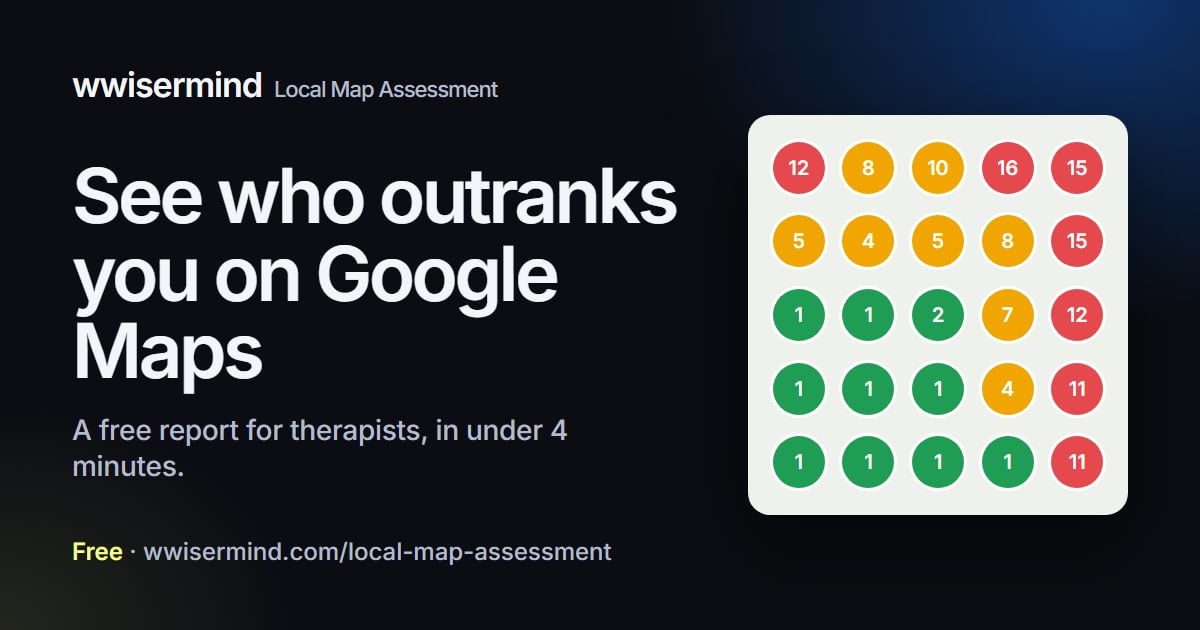
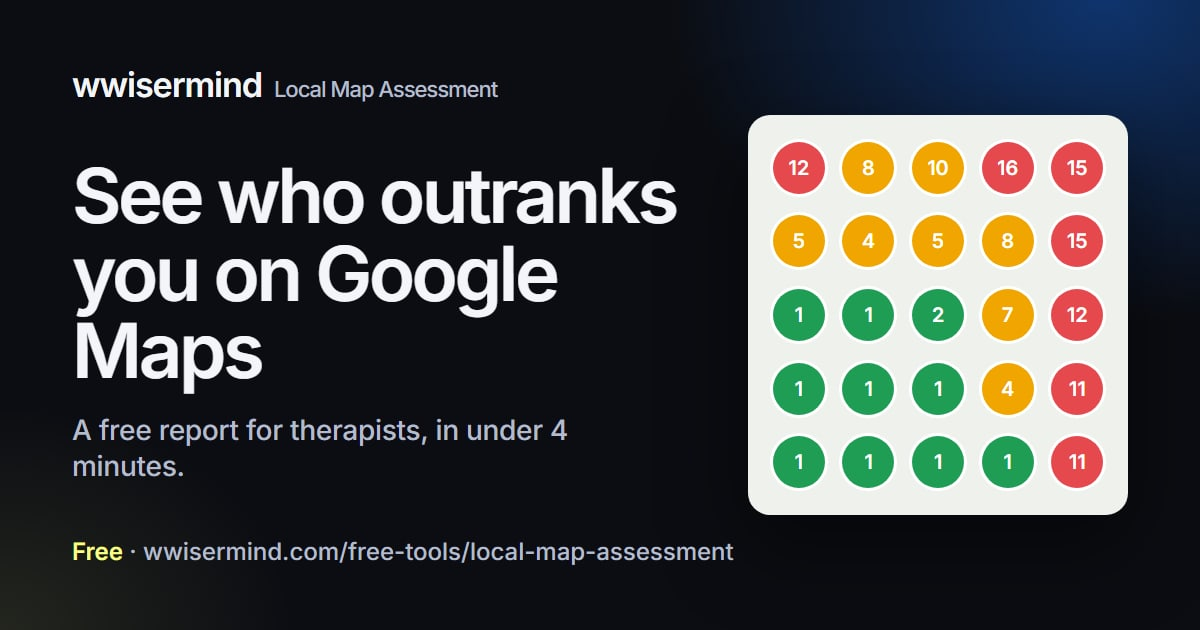
Move every tool, freebie and hub page under /free-tools/
- Routes: /tools/*, /freebies/<slug>/ and /local-map-assessment/* move to /free-tools/<same slug>/;
  /free-tools/ is the one hub (the combined freebies hub, also the free-resources category hub).
  Slugs are unchanged, /therapyindex/ and every API/Worker endpoint are untouched. The two freebie
  PDFs move to public/free-tools/.
- Every reference updated: lib/routes.ts (the source for menus, callouts, hubs, sitemap, schema),
  hard-coded paths in the GFE, Local Map and scorecard emails and report links, the scorecard report
  base, the Therapy Index own-chrome list, the Local Map own-chrome check, the help now widget script
  link, blog posts, README, the OG image text and the GFE e2e check.
- public/_redirects: exact 301s for every old URL (with and without a trailing slash), then
  /tools/*, /freebies/* and /local-map-assessment/* splats; old scorecard report links keep their id;
  the report shell rewrite and its _headers entry moved to the new path; older /explore rules now
  point straight at the final address.

Changed region(s): [[0.2775, 0.8444, 0.6167, 0.9048]]

diff --git a/lib/routes.ts b/lib/routes.ts
@@ -75,25 +75,34 @@ export const SERVICE_PRICING = {
   'ongoing-seo': pricing.seo,
 } as const satisfies Partial<Record<ServiceKey, Route>>;
 
-/* --- the freebies hub, the freebie pages and the two tools ---------------------------------- */
+/* --- the free-tools hub, the freebie pages and the tool pages -------------------------------- */
 
-/** Keyed by the slug in lib/freebies.ts: the folder the page lives in. The five downloads sit under
-    /freebies/, the two tools under /tools/. */
+/** Keyed by the slug in lib/freebies.ts: the page's address. Every download, template and tool sits
+    under /free-tools/. (They used to be under /freebies/ and /tools/; public/_redirects sends every
+    old address here.) */
 export const FREEBIE_PATHS = {
-  '2027-full-caseload-plan-for-therapists': '/freebies/2027-full-caseload-plan-for-therapists/',
-  'ai-visibility-report': '/tools/ai-visibility-report/',
-  'website-scorecard-for-therapists': '/tools/website-scorecard-for-therapists/',
-  'good-faith-estimate': '/tools/good-faith-estimate/',
+  '2027-full-caseload-plan-for-therapists': '/free-tools/2027-full-caseload-plan-for-therapists/',
+  'ai-visibility-report': '/free-tools/ai-visibility-report/',
+  'website-scorecard-for-therapists': '/free-tools/website-scorecard-for-therapists/',
+  'good-faith-estimate': '/free-tools/good-faith-estimate/',
   'psychology-today-profile-kit-for-therapists':
-    '/freebies/psychology-today-profile-kit-for-therapists/',
+    '/free-tools/psychology-today-profile-kit-for-therapists/',
   'google-business-profile-checklist-for-therapists':
-    '/freebies/google-business-profile-checklist-for-therapists/',
-  'social-media-posts-for-therapists': '/freebies/social-media-posts-for-therapists/',
-  'business-card-template-for-therapists': '/freebies/business-card-template-for-therapists/',
-  'email-signature-for-therapists': '/freebies/email-signature-for-therapists/',
+    '/free-tools/google-business-profile-checklist-for-therapists/',
+  'social-media-posts-for-therapists': '/free-tools/social-media-posts-for-therapists/',
+  'business-card-template-for-therapists': '/free-tools/business-card-template-for-therapists/',
+  'email-signature-for-therapists': '/free-tools/email-signature-for-therapists/',
 } as const satisfies Record<string, Route>;
 
 export type FreebieKey = keyof typeof FREEBIE_PATHS;
+
+/** The freebies that have a page folder of their own under app/free-tools/, so the shared [slug] page
+    leaves them out: the tools, not the downloads. */
+export const TOOL_PAGE_KEYS: FreebieKey[] = [
+  'ai-visibility-report',
+  'website-scorecard-for-therapists',
+  'good-faith-estimate',
+];
 
 /* --- everything else ------------------------------------------------------------------- */
 
@@ -108,7 +117,7 @@ export const routes = {
   contactBook: '/contact/#book',
   contactForm: '/contact/#contact-form',
   /** The free Local Map Assessment landing page. It has its own header and footer (see usesOwnChrome in lib/site.ts). */
-  localMapAssessment: '/local-map-assessment/',
+  localMapAssessment: '/free-tools/local-map-assessment/',
   blog: '/blog/',
   rss: '/rss.xml',
 
@@ -133,20 +142,18 @@ export const routes = {
 
   pricing,
 
-  /** The five category hubs (lib/categories.ts). The free-resources hub is the old freebies hub, moved:
-      /freebies/ redirects to it, and each freebie's own page keeps its /freebies/<slug>/ address. */
+  /** The five category hubs (lib/categories.ts). The free-resources hub is the one /free-tools/ hub:
+      /freebies/, /tools/ and /free-resources-for-therapists/ all redirect to it. */
   hubs: {
     websiteDesign: '/website-design-for-therapists/',
     marketing: '/marketing-for-therapists/',
     ai: '/ai-services-for-therapists/',
     whoWeHelp: '/who-we-help/',
-    freeResources: '/free-resources-for-therapists/',
+    freeResources: '/free-tools/',
   },
 
   freebies: {
-    hub: '/free-resources-for-therapists/',
-    /** The folder the five download pages live in. The hub left it; the pages did not. */
-    folder: '/freebies/',
+    hub: '/free-tools/',
     fullCaseloadPlan: FREEBIE_PATHS['2027-full-caseload-plan-for-therapists'],
     psychologyTodayKit: FREEBIE_PATHS['psychology-today-profile-kit-for-therapists'],
     googleBusinessProfile: FREEBIE_PATHS['google-business-profile-checklist-for-therapists'],
@@ -161,8 +168,8 @@ export const routes = {
     websiteScorecard: FREEBIE_PATHS['website-scorecard-for-therapists'],
     goodFaithEstimate: FREEBIE_PATHS['good-faith-estimate'],
     /** The public helpline directory, and the install page for the help now widget. */
-    crisisResources: '/tools/crisis-resources/',
-    helpNowWidget: '/tools/crisis-resources/help-now-widget/',
+    crisisResources: '/free-tools/crisis-resources/',
+    helpNowWidget: '/free-tools/crisis-resources/help-now-widget/',
   },
 
   /* The footer's bottom row. The legal pages share one template (components/legal/LegalPage.tsx)
@@ -179,8 +186,8 @@ export const routes = {
   blogPost: (slug: string): Route => `/blog/${slug}/`,
   /** `/blog/category/<slug>/` */
   blogCategory: (slug: string): Route => `/blog/category/${slug}/`,
-  /** `/tools/crisis-resources/<state>/`, the state's full lowercase name. */
-  crisisState: (slug: string): Route => `/tools/crisis-resources/${slug}/`,
+  /** `/free-tools/crisis-resources/<state>/`, the state's full lowercase name. */
+  crisisState: (slug: string): Route => `/free-tools/crisis-resources/${slug}/`,
   /** `/who-we-help/<slug>/` */
   audience: (slug: string): Route => `/who-we-help/${slug}/`,
 

diff --git a/lib/site.ts b/lib/site.ts
@@ -305,7 +305,7 @@ export const megaPanels: Record<string, MegaPanel> = {
 
   'Free Tools': {
     id: 'free-tools',
-    /* One menu for every free thing, grouped the way the /freebies/ hub groups it. The groups,
+    /* One menu for every free thing, grouped the way the /free-tools/ hub groups it. The groups,
        names and lines come from lib/free-tools.ts, which reads the tools' status: a hidden tool is
        not here. No item carries a badge; the only one is NEW on the top-level label. */
     columns: freeToolGroups.map((group) => ({
@@ -905,12 +905,12 @@ export const isTherapyIndexPage = (pathname: string): boolean => /^\/therapyinde
 
 /** The Therapy Index's own header and footer replace the site's on its pages and on the tool pages that carry its research
     branding. Every other page keeps the site's header, footer and floating contact bar. */
-export const tiChromeToolPaths: string[] = ['/tools/ai-visibility-report'];
+export const tiChromeToolPaths: string[] = ['/free-tools/ai-visibility-report'];
 export const usesTiChrome = (pathname: string): boolean =>
   isTherapyIndexPage(pathname) || tiChromeToolPaths.includes(pathname.replace(/\/+$/, ''));
 
 /** The Local Map Assessment landing page, and its start page, carry a header and footer of their own. */
-export const isLocalMapAssessmentPage = (pathname: string): boolean => /^\/local-map-assessment(\/|$)/.test(pathname);
+export const isLocalMapAssessmentPage = (pathname: string): boolean => /^\/free-tools\/local-map-assessment(\/|$)/.test(pathname);
 
 /** Pages whose own chrome replaces the site's header, footer and floating contact bar. */
 export const usesOwnChrome = (pathname: string): boolean => usesTiChrome(pathname) || isLocalMapAssessmentPage(pathname);

diff --git a/lib/freebies.ts b/lib/freebies.ts
@@ -3,7 +3,7 @@ import { categoryHubs } from '@/lib/categories';
 import { routes, type FreebieKey, type Route } from '@/lib/routes';
 
 /* ==========================================================================
-   Freebies: the /freebies/ hub, the five freebie pages and the two tool pages.
+   Freebies: the /free-tools/ hub, the freebie pages and the tool pages.
 
    One data file, one shared page template: every word on those pages is read from here.
    Same pattern as lib/services.ts and the pricing data files.
@@ -23,10 +23,10 @@ import { routes, type FreebieKey, type Route } from '@/lib/routes';
 export const FORM_ENDPOINT = '';
 
 /* The 2027 Full-Caseload Plan is built by scripts/guides/full-caseload-plan/build-pdf.mjs into
-   public/guides/. The other two PDFs live in public/freebies/. */
+   public/guides/. The other two PDFs live in public/free-tools/. */
 const FULL_CASELOAD_PLAN_PDF = '/guides/wwisermind-2027-full-caseload-plan.pdf';
-const PT_KIT_PDF = '/freebies/psychology-today-profile-kit-for-therapists.pdf';
-const GBP_CHECKLIST_PDF = '/freebies/google-business-profile-checklist-for-therapists.pdf';
+const PT_KIT_PDF = '/free-tools/psychology-today-profile-kit-for-therapists.pdf';
+const GBP_CHECKLIST_PDF = '/free-tools/google-business-profile-checklist-for-therapists.pdf';
 
 /* TODO: the Canva template links ("make a copy" links). While one is empty its success state says
    the link is not ready, rather than showing a dead button. */

diff --git a/app/free-tools/[slug]/page.tsx b/app/free-tools/[slug]/page.tsx
@@ -3,13 +3,13 @@ import { notFound } from 'next/navigation';
 import FreebiePage from '@/components/freebies/FreebiePage';
 import { freebieMetadata } from '@/lib/freebie-metadata';
 import { freebiePath, freebies, getFreebie } from '@/lib/freebies';
-import { routes } from '@/lib/routes';
+import { TOOL_PAGE_KEYS } from '@/lib/routes';
 
-/* One page per download or template, at /freebies/<slug>/. The two tools have their own folders
-   under /tools/. Anything else is a 404: the site is a static export. */
+/* One page per download or template, at /free-tools/<slug>/. The tools have their own folders next
+   to this one. Anything else is a 404: the site is a static export. */
 export const dynamicParams = false;
 
-const onThisFolder = freebies.filter((freebie) => freebiePath(freebie).startsWith(routes.freebies.folder));
+const onThisFolder = freebies.filter((freebie) => !TOOL_PAGE_KEYS.includes(freebie.slug));
 
 export function generateStaticParams() {
   return onThisFolder.map((freebie) => ({ slug: freebie.slug }));

diff --git a/public/widget/help-now.js b/public/widget/help-now.js
@@ -1,6 +1,6 @@
 /* wwisermind help now widget
    Adds a list of free US crisis and mental health helplines to any website.
-   Docs and a snippet generator: https://wwisermind.com/tools/crisis-resources/help-now-widget/
+   Docs and a snippet generator: https://wwisermind.com/free-tools/crisis-resources/help-now-widget/
 
    It makes one request, for the list of numbers, and nothing else: no cookies, no localStorage,
    no analytics, no third-party requests. If anything fails, the fallback text the site pasted
@@ -10,7 +10,7 @@
 
   var HOME = 'https://wwisermind.com';
   var DEFAULT_DATA = HOME + '/data/crisis-resources.json';
-  var TOOL_URL = HOME + '/tools/crisis-resources/';
+  var TOOL_URL = HOME + '/free-tools/crisis-resources/';
   var DEFAULT_COLOR = '#146ef5';
   var COMPACT_IDS = ['emergency-911', 'lifeline-988', 'crisis-text-line'];
   /* data-src is a testing hook. It is honoured only on these hosts; everywhere else the widget

diff --git a/lib/scorecard/scan.ts b/lib/scorecard/scan.ts
@@ -7,7 +7,7 @@ import type { CheckId, CheckResult, Platform, ScanResult } from './types';
    PageSpeed for the mobile numbers, all inside one time budget. Anything that fails is marked
    "couldn't check" instead of failing the scan. */
 
-const UA = 'Mozilla/5.0 (compatible; wwisermind-scorecard/1.0; +https://wwisermind.com/tools/website-scorecard-for-therapists/)';
+const UA = 'Mozilla/5.0 (compatible; wwisermind-scorecard/1.0; +https://wwisermind.com/free-tools/website-scorecard-for-therapists/)';
 
 const TRACKING_PARAM = /^(utm_|fbclid|gclid|msclkid|mc_|_ga|igshid|ref$)/i;
 

diff --git a/app/free-tools/crisis-resources/[state]/page.tsx b/app/free-tools/crisis-resources/[state]/page.tsx
@@ -5,7 +5,7 @@ import { getStateBySlug, getStatesWithData } from '@/lib/crisis-resources';
 import { routes } from '@/lib/routes';
 import { absUrl } from '@/lib/site';
 
-/* One page per state that has data, at /tools/crisis-resources/<state>/ (the full lowercase
+/* One page per state that has data, at /free-tools/crisis-resources/<state>/ (the full lowercase
    name, like "illinois"). Add a state to lib/crisis-resources.json and its page appears.
 
    A static export refuses a dynamic route whose generateStaticParams() is empty. So while no state

diff --git a/components/scorecard/api.ts b/components/scorecard/api.ts
@@ -2,5 +2,5 @@
    `next dev` at a running `wrangler pages dev`; leave it empty in production (same origin). */
 export const API = `${process.env.NEXT_PUBLIC_SCORECARD_API ?? ''}/api/scorecard`;
 
-/** Reports live at /tools/website-scorecard-for-therapists/r/<id>/ (see public/_redirects). */
-export const REPORT_BASE = '/tools/website-scorecard-for-therapists/r/';
+/** Reports live at /free-tools/website-scorecard-for-therapists/r/<id>/ (see public/_redirects). */
+export const REPORT_BASE = '/free-tools/website-scorecard-for-therapists/r/';

diff --git a/lib/free-tools.ts b/lib/free-tools.ts
@@ -1,6 +1,6 @@
 /* The free tools and downloads, grouped the one way the whole site shows them.
 
-   The Free Tools menu (desktop and mobile) and the /freebies/ hub both read this list, so a tool
+   The Free Tools menu (desktop and mobile) and the /free-tools/ hub both read this list, so a tool
    moves, is renamed or is hidden in one place. A tool comes from lib/tools.ts (and is dropped if its
    status is "hidden"); a download comes from lib/freebies.ts by its slug, with the short name and
    line the menu shows for it. */

diff --git a/lib/local-map/server/email.ts b/lib/local-map/server/email.ts
@@ -11,7 +11,7 @@ const LINE = '#e9e6e0';
 const BLUE = '#146ef5';
 const FONT = "-apple-system,BlinkMacSystemFont,'Segoe UI',Helvetica,Arial,sans-serif";
 
-export const reportUrl = (origin: string, id: string) => `${origin}/local-map-assessment/report/?id=${id}`;
+export const reportUrl = (origin: string, id: string) => `${origin}/free-tools/local-map-assessment/report/?id=${id}`;
 
 function shell(inner: string, preheader: string) {
   return `<!doctype html><html lang="en"><body style="margin:0;padding:0;background:#f5f5f5;">

diff --git a/components/crisis/CrisisResourcesPage.tsx b/components/crisis/CrisisResourcesPage.tsx
@@ -21,7 +21,7 @@ import styles from './CrisisResources.module.css';
 
 /**
  * The public helpline directory, read from lib/crisis-resources.json through the helpers. Used
- * for /tools/crisis-resources/ and, with a `state`, for each state page.
+ * for /free-tools/crisis-resources/ and, with a `state`, for each state page.
  *
  * The first thing on the page is the emergency banner, static and high contrast, with a large
  * tap target for 988. There is no hero image, no video and nothing that animates. Every button

diff --git a/lib/gfe/server/email.ts b/lib/gfe/server/email.ts
@@ -10,7 +10,7 @@ const LINE = '#e9e6e0';
 const BLUE = '#146ef5';
 const FONT = "-apple-system,BlinkMacSystemFont,'Segoe UI',Helvetica,Arial,sans-serif";
 
-export const toolUrl = (origin: string) => `${origin}/tools/good-faith-estimate/`;
+export const toolUrl = (origin: string) => `${origin}/free-tools/good-faith-estimate/`;
 
 function shell(inner: string, preheader: string) {
   return `<!doctype html><html lang="en"><body style="margin:0;padding:0;background:#f5f5f5;">
